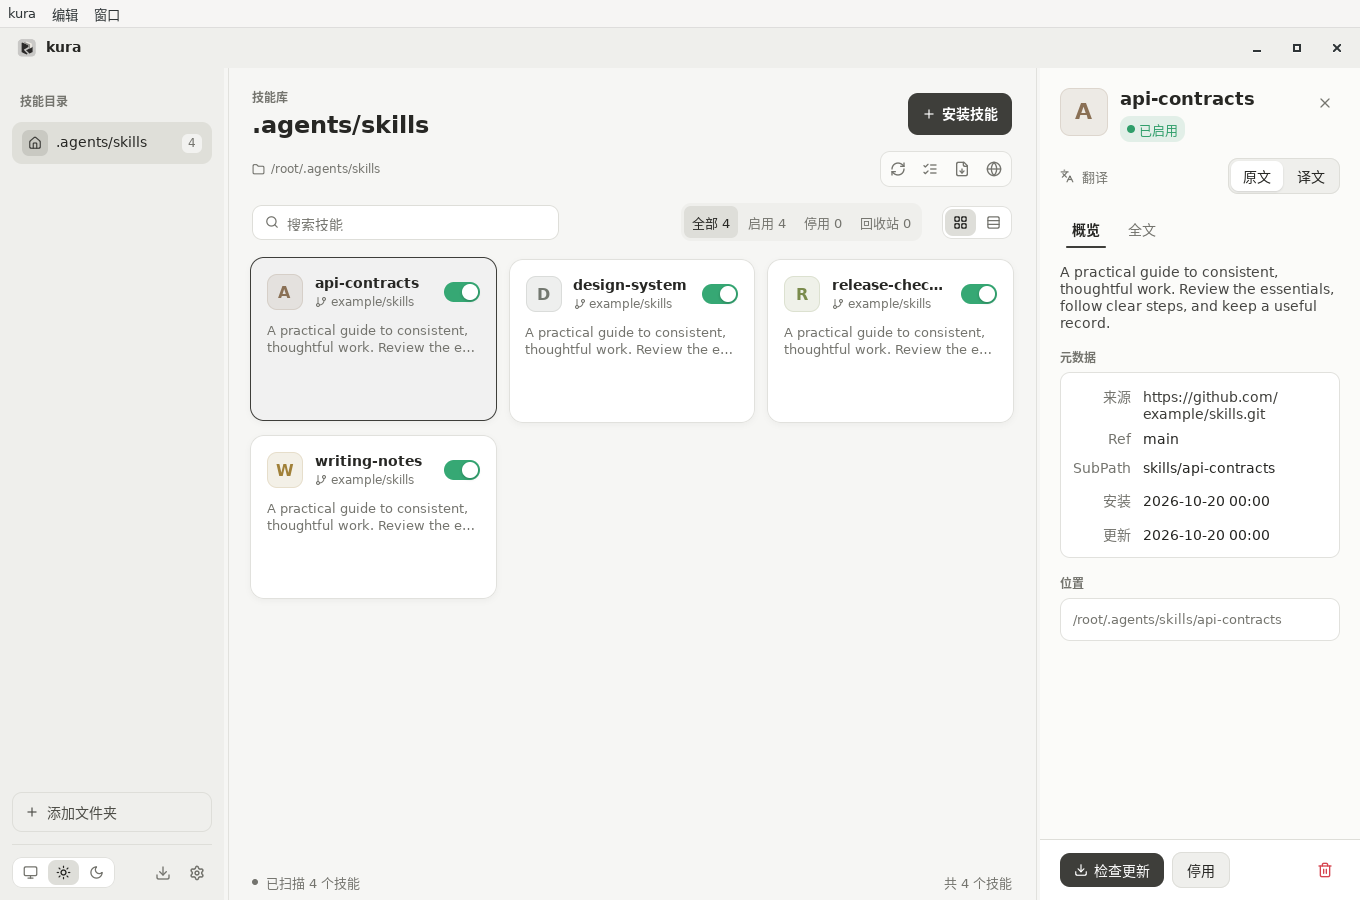
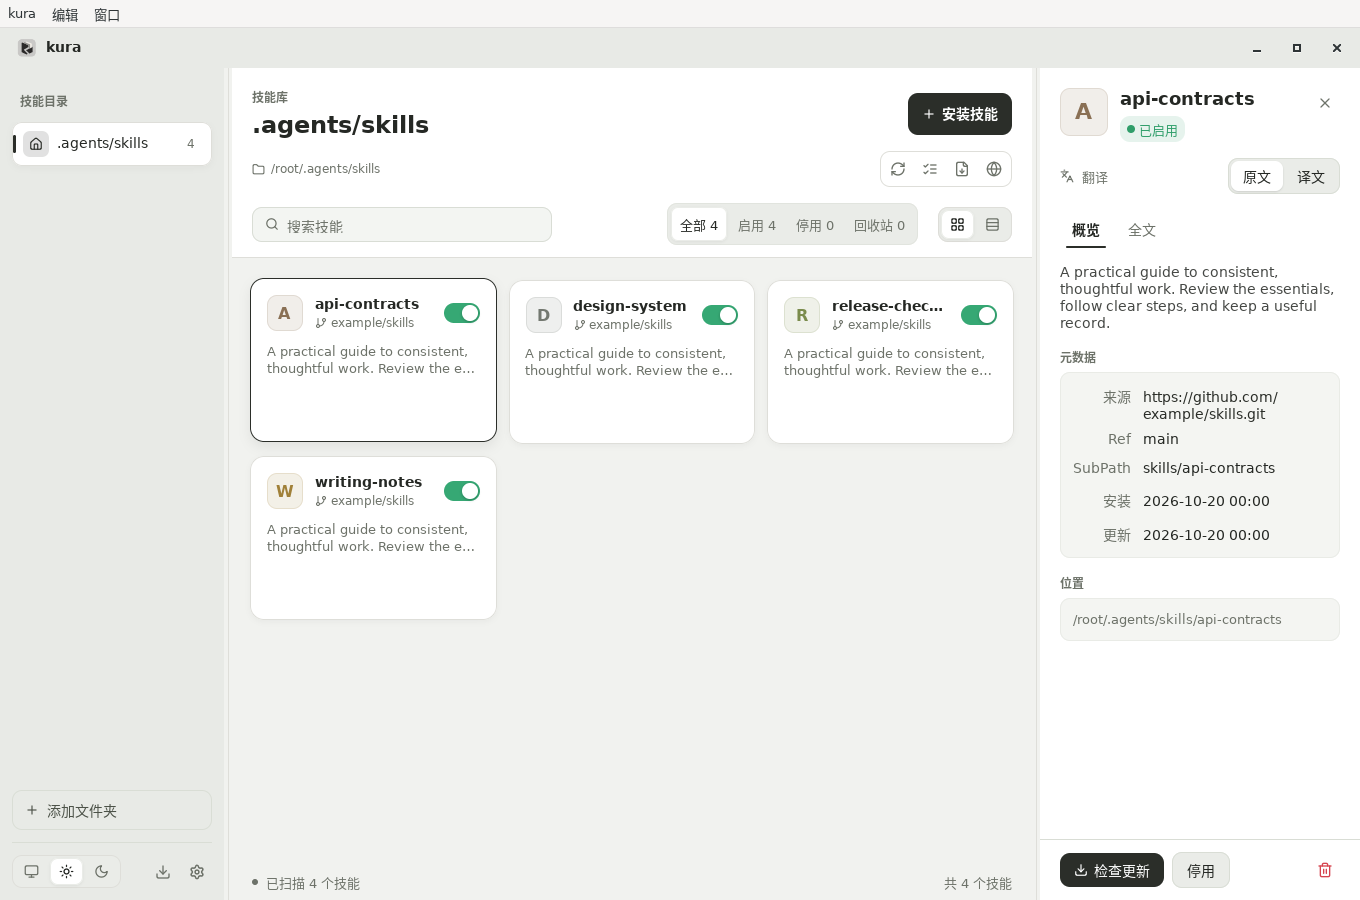
feat(ui): refine light theme surfaces and selection

diff --git a/internal/ui/view.go b/internal/ui/view.go
@@ -103,6 +103,14 @@ func (a *App) View(c *myui.Context) {
 			myui.Column(c).Grow(1).MinWidth(0).FillHeight().Background(a.pal.canvas).Children(func() {
 				a.viewMainHeader(c)
 				a.viewFilterBar(c)
+				var separator, gap float32
+				if !c.Theme().Dark {
+					separator, gap = 1, c.Theme().Space(4)
+				}
+				// 白色工具区与银灰画布留出间距；深色保留零高节点，
+				// 避免主题切换改变后续列表的身份、丢失滚动位置。
+				myui.Box(c).FillWidth().Height(separator).Shrink(0).Background(a.pal.line)
+				myui.Box(c).Height(gap).Shrink(0)
 				a.viewErrorBanner(c)
 				a.viewSkills(c, rows)
 				a.viewStatusBar(c)
@@ -250,8 +258,8 @@ func dragWidth(cur, delta, lo, hi float32) float32 {
 
 // viewRoots 是左栏：技能目录列表（每项带在用技能数，追加的目录可以拖动排序，
 // 默认目录总在第一个）与底部的「添加文件夹」，再往下是 viewRootsFooter 的一行。
-// 底色与中栏相同，只靠右侧的分隔线区分；选中项用浅一档的底色。品牌标识在窗口
-// 顶栏里，这里不再重复。
+// 浅色导航用银灰底与白色选中项，深色沿用石墨层次。品牌标识在窗口顶栏里，
+// 这里不再重复。
 func (a *App) viewRoots(c *myui.Context) {
 	t := c.Theme()
 	myui.Column(c).Width(a.rootsEff).Shrink(0).FillHeight().Background(a.pal.sidebar).Children(func() {
@@ -408,7 +416,11 @@ func (a *App) viewThemeSwitch(c *myui.Context) {
 	sel := themeIndex(a.themeMode)
 	seg := myui.SegmentedBase(c, &sel, len(themeModes))
 	track := seg.Track.Label(locales.UiThemeLabel()).Padding(t.Space(0.5)).Gap(t.Space(0.5)).
-		Radius(t.Radius).Background(a.pal.card).Border(1, a.pal.line).Shrink(0).Children(func() {
+		Radius(t.Radius).Background(a.pal.card).Border(1, a.pal.line).Shrink(0)
+	if !t.Dark {
+		track.Background(t.Surface)
+	}
+	track.Children(func() {
 		for i, m := range themeModes {
 			b := seg.Segment(i).Label(m.label()).Tooltip(m.label()).
 				Padding(t.Space(1.25), t.Space(2)).Radius(t.Radius - 2).TextColor(t.TextMuted)
@@ -438,6 +450,10 @@ func (a *App) rootItem(c *myui.Context, root string, isDefault bool) {
 	hover := b.AnimateTo("hover", boolF(b.Hovered()), interactionMotion)
 	b.Background(a.pal.sidebar.Mix(t.SurfaceHover, hover).Mix(a.pal.sel, chosen)).
 		TextColor(a.pal.textMid.Mix(t.Text, chosen))
+	if !t.Dark {
+		b.Border(1, a.pal.line.Alpha(chosen)).
+			Shadow(0, 2, 7, 0, a.pal.shadow.Mix(myui.Transparent, 1-chosen))
+	}
 	buttonMotion(c, b, true)
 	if !isDefault {
 		b.Drag(rootRef(root))
@@ -449,6 +465,11 @@ func (a *App) rootItem(c *myui.Context, root string, isDefault bool) {
 		}
 	}
 	b.Children(func() {
+		if !t.Dark {
+			// 标记只绘制，不改变目录行的点击、拖放和右键行为。
+			myui.Box(c.Key("root-marker")).Absolute().Left(0).Top(12).Bottom(12).
+				Width(3).Radius(1.5).Background(t.Accent.Alpha(chosen)).PassThrough()
+		}
 		icon := iconFolder
 		if isDefault {
 			icon = iconHome
@@ -510,7 +531,7 @@ func (a *App) viewMainHeader(c *myui.Context) {
 	t := c.Theme()
 	isDefault := a.cfg.Root == a.lib.Default()
 	myui.Column(c).FillWidth().Shrink(0).Padding(t.Space(5), t.Space(5), t.Space(2)).
-		Gap(t.Space(3)).Children(func() {
+		Background(a.pal.header).Gap(t.Space(3)).Children(func() {
 		myui.Row(c).FillWidth().Gap(t.Space(3)).AlignItems(myui.Center).Children(func() {
 			myui.Column(c).Grow(1).MinWidth(0).Gap(t.Space(1)).Children(func() {
 				myui.Text(c, locales.UiLibraryTitle()).FontSize(t.FontSize - 2).FontWeight(600).TextColor(t.TextMuted)
@@ -558,7 +579,7 @@ func (a *App) viewFilterBar(c *myui.Context) {
 	t := c.Theme()
 	en, dis, trash := a.counts()
 	myui.Row(c).FillWidth().Wrap().Padding(t.Space(2), t.Space(5), t.Space(3), t.Space(5)).Gap(t.Space(2)).
-		AlignItems(myui.Center).Children(func() {
+		Background(a.pal.header).AlignItems(myui.Center).Children(func() {
 		searchBox(c, &a.query, a.pal.card).Grow(1).Basis(t.Space(50)).MaxWidth(t.Space(80))
 		myui.Spacer(c)
 		filterTabs(c, &a.filter,
@@ -601,7 +622,11 @@ func (a *App) viewModeSwitch(c *myui.Context) {
 	sel := viewIndex(a.viewMode)
 	seg := myui.SegmentedBase(c, &sel, len(viewModes))
 	track := seg.Track.Label(locales.UiViewLabel()).Padding(t.Space(0.5)).Gap(t.Space(0.5)).
-		Radius(t.Radius).Background(a.pal.card).Border(1, a.pal.line).Shrink(0).Children(func() {
+		Radius(t.Radius).Background(a.pal.card).Border(1, a.pal.line).Shrink(0)
+	if !t.Dark {
+		track.Background(t.Surface)
+	}
+	track.Children(func() {
 		for i, m := range viewModes {
 			b := seg.Segment(i).Label(m.label()).Tooltip(m.label()).
 				Padding(t.Space(1.5), t.Space(2)).Radius(t.Radius - 2).TextColor(t.TextMuted)
@@ -1181,7 +1206,7 @@ func (a *App) startFullTextLoad(s *store.Skill) {
 	})
 }
 
-// detailGroup 是详情里的一个信息块：小标题 + 比底色浅一档的圆角框。
+// detailGroup 是详情里的一个信息块：浅色用银灰内嵌面，深色用提亮的圆角框。
 // selectable 为 true 时内层容器加 Selectable：组内文字可拖选、双击选词、
 // Ctrl+C 拷贝（MyGo 容器上的 Selectable 让内部 Text/RichText 共享一次
 // 选择）。只给「元数据」「位置」这两组开：组里现在没有控件，将来若有
@@ -1192,7 +1217,7 @@ func (a *App) detailGroup(c *myui.Context, title string, selectable bool, fn fun
 	myui.Column(c).FillWidth().Gap(t.Space(1.5)).Children(func() {
 		sectionHeader(c, title)
 		inner := myui.Column(c).FillWidth().Padding(t.Space(3)).Gap(t.Space(1.5)).
-			Radius(t.Radius).Background(a.pal.card).Border(1, a.pal.line)
+			Radius(t.Radius).Background(a.pal.group).Border(1, a.pal.groupLine)
 		if selectable {
 			inner.Selectable()
 		}

diff --git a/internal/ui/theme.go b/internal/ui/theme.go
@@ -13,20 +13,24 @@ import (
 
 // palette 是主题之外、kura 自己用的颜色。
 type palette struct {
-	sidebar myui.Color // 左栏底色
-	canvas  myui.Color // 中栏底色
-	panel   myui.Color // 详情检查器的底色
-	card    myui.Color // 卡片、详情分组与搜索框的底色（比底色浅一档）
-	line    myui.Color // 卡片与分隔线的描边
-	shadow  myui.Color // 卡片的轻投影
-	sel     myui.Color // 左栏选中项的底色
-	textMid myui.Color // 左栏未选中项的文字（介于正文与弱化色之间）
-	toggle  myui.Color // 开关「开」的颜色
+	sidebar     myui.Color // 左栏底色
+	canvas      myui.Color // 中栏底色
+	header      myui.Color // 工作区标题与筛选区的底色
+	panel       myui.Color // 详情检查器的底色
+	group       myui.Color // 详情内信息分组的底色
+	groupLine   myui.Color // 信息分组的弱描边
+	card        myui.Color // 卡片与搜索框的底色（比底色浅一档）
+	line        myui.Color // 卡片与分隔线的描边
+	shadow      myui.Color // 卡片的轻投影
+	shadowHover myui.Color // 卡片悬停或选中时的投影
+	sel         myui.Color // 左栏选中项的底色
+	textMid     myui.Color // 左栏未选中项的文字（介于正文与弱化色之间）
+	toggle      myui.Color // 开关「开」的颜色
 	// notify 是「有新版本」的小圆点的颜色：一个真正的蓝（色相近 210°），
 	// 与中性的主操作色明显不同，但不刺眼。
 	notify myui.Color
-	// 卡片的三种交互态：悬停时底色与描边都亮（深色）/暗（浅色）一点，
-	// 选中时描边是强调色、底色带一丝强调色。
+	// 卡片的三种交互态：深色用底色和描边变化；浅色保持纸白，
+	// 通过更清楚的描边与投影表达悬停、选中。
 	cardHover, lineHover, cardSel myui.Color
 	// avatars 是头像色板：低饱和的暖色与青绿，刻意不含蓝紫，
 	// 不和强调色抢戏。
@@ -77,7 +81,8 @@ type tone struct {
 	bg, surface, surfaceHover, surfacePressed string
 	border, text, muted, textMid              string
 	sidebar, canvas, panel, card, line, sel   string
-	shadow                                    myui.Color
+	header, group, groupLine                  string
+	shadow, shadowHover                       myui.Color
 	avatars                                   []string
 }
 
@@ -104,13 +109,17 @@ func newSkin(dark bool, k tone) *skin {
 	}
 	pal := palette{
 		sidebar: hx(k.sidebar), canvas: hx(k.canvas), panel: hx(k.panel), card: hx(k.card), line: hx(k.line),
-		shadow: k.shadow, sel: hx(k.sel), textMid: hx(k.textMid), toggle: hx(k.toggle),
+		header: hx(k.header), group: hx(k.group), groupLine: hx(k.groupLine),
+		shadow: k.shadow, shadowHover: k.shadowHover, sel: hx(k.sel), textMid: hx(k.textMid), toggle: hx(k.toggle),
 		notify: hx(k.notify), avatars: avatars,
 	}
-	// 向正文色混一点：深色里变亮、浅色里变暗，两个皮肤用同一条规则。
-	pal.cardHover = pal.card.Mix(t.Text, 0.035)
+	// 浅色卡片保持纸白；深色仍沿用向正文色混入的层次。
+	pal.cardHover, pal.cardSel = pal.card, pal.card
 	pal.lineHover = pal.line.Mix(t.Text, 0.22)
-	pal.cardSel = pal.card.Mix(t.Accent, 0.07)
+	if dark {
+		pal.cardHover = pal.card.Mix(t.Text, 0.035)
+		pal.cardSel = pal.card.Mix(t.Accent, 0.07)
+	}
 
 	// GridView 给每个单元格自己画一层选中框与悬停底：选中（网格有焦点）时是
 	// 2px 的 Accent 边加 Accent 淡底，选中（无焦点）时是 SurfacePressed 底加
@@ -127,14 +136,15 @@ func newSkin(dark bool, k tone) *skin {
 // kuraScheme 是应用的配色。
 var kuraScheme = &scheme{
 	light: newSkin(false, tone{
-		accent: "#3e3e3a", accentHover: "#30302d", accentPressed: "#232320", accentText: "#ffffff",
+		accent: "#2b2e29", accentHover: "#20231e", accentPressed: "#171a15", accentText: "#ffffff",
 		toggle:  "#36a874",
 		notify:  "#2f7dd1",
 		success: "#2f9e6a", warning: "#b7791f", danger: "#d64550",
-		bg: "#ffffff", surface: "#efefec", surfaceHover: "#e7e7e3", surfacePressed: "#deded9",
-		border: "#deded9", text: "#272724", muted: "#74746e", textMid: "#4d4d47",
-		sidebar: "#efefec", canvas: "#f6f6f4", panel: "#fbfbf9", card: "#ffffff", line: "#e1e1dd", sel: "#dfdfd9",
-		shadow:  myui.RGBA(25, 26, 23, 0.045),
+		bg: "#ffffff", surface: "#eaece8", surfaceHover: "#e2e5df", surfacePressed: "#d8ddd4",
+		border: "#d9ddd5", text: "#252824", muted: "#6d7269", textMid: "#4c5248",
+		sidebar: "#e8eae6", canvas: "#f1f2ef", panel: "#ffffff", card: "#ffffff", line: "#deded9", sel: "#ffffff",
+		header: "#ffffff", group: "#f4f5f2", groupLine: "#e9ebe6",
+		shadow: myui.RGBA(25, 26, 23, 0.045), shadowHover: myui.RGBA(25, 26, 23, 0.08),
 		avatars: []string{"#488779", "#a08038", "#b36870", "#b47850", "#737870", "#7a8b4c", "#a16c84", "#8a7055"},
 	}),
 	dark: newSkin(true, tone{
@@ -145,7 +155,8 @@ var kuraScheme = &scheme{
 		bg: "#262626", surface: "#292929", surfaceHover: "#323232", surfacePressed: "#3b3b39",
 		border: "#3d3d3a", text: "#f0f0ed", muted: "#989891", textMid: "#c0c0b9",
 		sidebar: "#171717", canvas: "#1e1e1e", panel: "#222222", card: "#282828", line: "#3a3a38", sel: "#333332",
-		shadow:  myui.RGBA(0, 0, 0, 0.10),
+		header: "#1e1e1e", group: "#282828", groupLine: "#3a3a38",
+		shadow: myui.RGBA(0, 0, 0, 0.10), shadowHover: myui.RGBA(0, 0, 0, 0.10),
 		avatars: []string{"#94bcae", "#c8b184", "#ca9da1", "#cfaa8b", "#adb3a5", "#b4bd8e", "#bca0b0", "#c4af94"},
 	}),
 }

diff --git a/internal/ui/theme_scroll_test.go b/internal/ui/theme_scroll_test.go
@@ -1,0 +1,90 @@
+package ui
+
+import (
+	"fmt"
+	"math"
+	"testing"
+
+	"github.com/ArnoChenFx/kura/internal/store"
+	"github.com/ArnoChenFx/kura/locales"
+	myui "github.com/egoist/mygo/ui"
+)
+
+// 长列表滚动到中部后，切换主题只应改变工具栏留白，不应更换 Scroll 的
+// 身份而回到顶部。用实际首行布局校准两种主题的位置差，不复制主题尺寸。
+func TestThemeSwitchKeepsLongListScrollPosition(t *testing.T) {
+	for _, initial := range []string{store.ThemeLight, store.ThemeDark} {
+		t.Run(initial, func(t *testing.T) {
+			a, cfg := newTestApp(t)
+			var names []string
+			for i := 0; i < 30; i++ {
+				name := fmt.Sprintf("scroll-skill-%02d", i)
+				names = append(names, name)
+				seedDescribed(t, cfg, name, "A skill in the long list", nil)
+			}
+			a.viewMode, a.themeMode = store.ViewList, initial
+			tt := showApp(a, 1280, 800)
+			tt.SetPreferences(myui.Preferences{ReduceMotion: true})
+			refresh(a, tt)
+
+			switchTheme := func(mode string) {
+				t.Helper()
+				label := locales.UiThemeLight()
+				if mode == store.ThemeDark {
+					label = locales.UiThemeDark()
+				}
+				click(t, a, tt, label)
+				if a.themeMode != mode {
+					t.Fatalf("主题按钮未切换到 %s：得到 %s", mode, a.themeMode)
+				}
+			}
+			firstY := map[string]float32{}
+			for _, mode := range []string{store.ThemeLight, store.ThemeDark} {
+				switchTheme(mode)
+				first, ok := tt.Find(names[0])
+				if !ok || first.H <= 0 {
+					t.Fatalf("滚动前 %s 主题应显示首行", mode)
+				}
+				firstY[mode] = first.Y
+			}
+			switchTheme(initial)
+			first, _ := tt.Find(names[0])
+			tt.Scroll(first.X+first.W/2, first.Y+first.H/2, 0, 900)
+			refresh(a, tt)
+			if r, ok := tt.Find(names[0]); ok && r.H > 0 {
+				t.Fatal("滚动后首行仍可见，未实际进入长列表中部")
+			}
+
+			// 选窗口中部的一行作锚点，避免顶部/底部的裁切影响几何断言。
+			var anchor string
+			var before myui.Rect
+			for _, name := range names[1:] {
+				if r, ok := tt.Find(name); ok && r.H > 0 && r.Y >= 360 && r.Y+r.H <= 560 {
+					anchor, before = name, r
+					break
+				}
+			}
+			if anchor == "" {
+				t.Fatal("滚动后没有可见的中部行")
+			}
+			other := store.ThemeDark
+			if initial == store.ThemeDark {
+				other = store.ThemeLight
+			}
+			for _, mode := range []string{other, initial} {
+				switchTheme(mode)
+				for frame := 0; frame < 2; frame++ {
+					tt.Frame()
+					after, ok := tt.Find(anchor)
+					if !ok || after.H <= 0 {
+						t.Fatalf("切到 %s 后第 %d 帧丢失滚动锚点 %q，列表可能回到了顶部", mode, frame, anchor)
+					}
+					wantY := before.Y + firstY[mode] - firstY[initial]
+					if math.Abs(float64(after.Y-wantY)) > 0.5 {
+						t.Fatalf("切到 %s 后列表滚动位置改变：锚点 %q Y=%g，按实际工具栏布局应为 %g", mode, anchor, after.Y, wantY)
+					}
+				}
+			}
+		})
+	}
+}

diff --git a/internal/ui/widgets.go b/internal/ui/widgets.go
@@ -243,6 +243,11 @@ func searchBox(c *myui.Context, query *string, bg myui.Color) myui.Element {
 	})
 	focus := row.AnimateTo("focus", boolF(row.FocusWithin()), interactionMotion)
 	row.Border(1, t.Border.Mix(t.Accent, focus))
+	if !t.Dark {
+		// 白色工具栏内用银灰底标出输入区域，聚焦后回到纸白并显出轻投影。
+		row.Background(t.Surface.Mix(bg, 0.45).Mix(bg, focus)).
+			Shadow(0, 1, 3, 0, t.Text.Alpha(0.05*focus))
+	}
 	return row
 }
 
@@ -250,14 +255,24 @@ func searchBox(c *myui.Context, query *string, bg myui.Color) myui.Element {
 func segmentSurface(e myui.Element, t *myui.Theme, selected bool) {
 	on := e.AnimateTo("selected", boolF(selected), interactionMotion)
 	hover := e.AnimateTo("hover", boolF(e.Hovered() && !selected), interactionMotion)
-	e.Background(t.SurfaceHover.Alpha(hover).Mix(t.SurfacePressed, on)).
-		TextColor(t.TextMuted.Mix(t.Text, max(on, hover)))
+	e.TextColor(t.TextMuted.Mix(t.Text, max(on, hover)))
+	if t.Dark {
+		e.Background(t.SurfaceHover.Alpha(hover).Mix(t.SurfacePressed, on))
+		return
+	}
+	// 亮色分段从银灰轨道浮起白色选项，描边与投影随选中状态一起过渡。
+	e.Background(t.SurfaceHover.Alpha(hover).Mix(t.Background, on)).
+		Border(1, t.Border.Alpha(0.55*on)).
+		Shadow(0, 1, 3, 0, t.Text.Alpha(0.075*on))
 }
 
 // filterTabs 用无障碍和键盘行为完整的 SegmentedBase，计数变化不会重建控件身份。
 func filterTabs(c *myui.Context, selected *int, labels ...string) myui.Element {
 	t := c.Theme()
 	parts := myui.SegmentedBase(c, selected, len(labels))
+	if !t.Dark {
+		parts.Track.Border(1, t.Border.Alpha(0.55))
+	}
 	return parts.Track.Padding(3).Gap(2).Radius(t.Radius).Background(t.Surface).Children(func() {
 		for i, label := range labels {
 			b := parts.Segment(i).Label(label).Padding(t.Space(1.5), t.Space(2)).Radius(t.Radius - 3)

diff --git a/internal/ui/motion.go b/internal/ui/motion.go
@@ -18,9 +18,14 @@ var (
 func surfaceMotion(c *myui.Context, e myui.Element, pal palette, selected, lift bool) {
 	hover := e.AnimateTo("surface-hover", boolF(e.Hovered() && !selected), interactionMotion)
 	chosen := e.AnimateTo("surface-selected", boolF(selected), interactionMotion)
+	emphasis := hover
+	if !c.Theme().Dark {
+		// 纸白卡片以投影表达选中，深色保留原有的底色与悬停投影。
+		emphasis = max(hover, chosen)
+	}
 	e.Background(pal.card.Mix(pal.cardHover, hover).Mix(pal.cardSel, chosen)).
 		Border(1, pal.line.Mix(pal.lineHover, hover).Mix(c.Theme().Accent, chosen)).
-		Shadow(0, 2+3*hover, 6+6*hover, 0, pal.shadow)
+		Shadow(0, 2+3*emphasis, 6+6*emphasis, 0, pal.shadow.Mix(pal.shadowHover, emphasis))
 	pose := myui.Pose{}
 	if lift && e.Hovered() && !c.Preferences().ReduceMotion {
 		pose.Y = -2

diff --git a/internal/ui/cardchrome_test.go b/internal/ui/cardchrome_test.go
@@ -94,10 +94,11 @@ func checkCardRing(t *testing.T, tt *myui.Tester, sk *skin, bg, border myui.Colo
 	}
 	midX, midY := (left+right)/2, (top+bottom)/2
 
-	// 浅色皮肤的卡片有一层很淡的投影，紧贴边框处最多比底色暗 7 左右。
+	// 浅色卡片的交互投影最高 8% 不透明度，紧贴边框处比底色暗约 13。
+	// 只放宽外侧底色采样；上方仍严格检查边框恰好一圈、宽度为 1px。
 	tol := 3
 	if !dark {
-		tol = 9
+		tol = 15
 	}
 	for d := 1; d <= 3; d++ {
 		for _, p := range []image.Point{{left - d, midY}, {right + d, midY}, {midX, top - d}, {midX, bottom + d}} {
